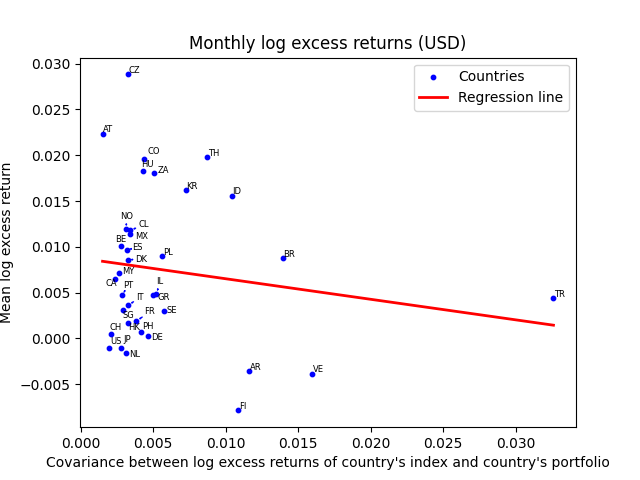
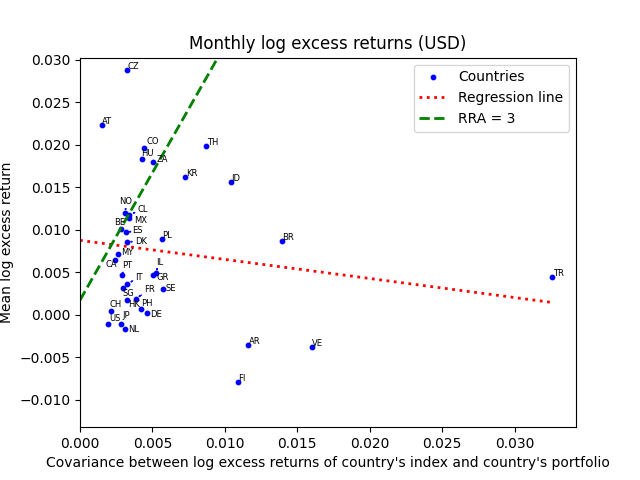
Add RRA=3

diff --git a/src/figure1.py b/src/figure1.py
@@ -19,25 +19,26 @@ cpis = data.get_dataset("cpis")
 wb = data.get_dataset("wb")
 
 # Align the risk-free rate data with the returns data
+start, end = (2001, 2004)
+ds = ds.loc[:, (ds.columns >= pd.Timestamp(f"{start-1}-12-01")) & (ds.columns <= pd.Timestamp(f"{end+1}-01-01"))]
 fed = fed.reindex(columns=ds.columns)
 fed = annual_to_monthly_return(fed)
 
 # Calculate returns and risk-free rate
-start, end = (2001, 2004)
-ds = ds.loc[:, (ds.columns >= pd.Timestamp(f"{start-1}-12-01")) & (ds.columns <= pd.Timestamp(f"{end+1}-01-01"))]
 ds_filled = ds.ffill(axis=1)
 returns = ds_filled.pct_change(axis=1, fill_method=None)
-risk_free_rate = fed.loc["FEDFUNDS"]
+riskfree_rate = fed.loc["FEDFUNDS"]
+avg_riskfree_rate = riskfree_rate.mean() 
 
 # Simple excess returns
-excess_returns = returns.subtract(risk_free_rate, axis=1)
+excess_returns = returns.subtract(riskfree_rate, axis=1)
 mean_excess = excess_returns.mean(axis=1)
 var_excess = excess_returns.var(axis=1)
 cov_excess = pd.Series(cpis.calculate_cov_index_portfolio(wb, fed, ds, (start, end), False), index=DS.CODES)
 
 # Log excess returns
 log_returns = np.log(1 + returns)
-log_risk_free = np.log(1 + risk_free_rate)
+log_risk_free = np.log(1 + riskfree_rate)
 log_excess_returns = log_returns.subtract(log_risk_free, axis=1)
 mean_log_excess = log_excess_returns.mean(axis=1)
 var_log_excess = log_excess_returns.var(axis=1)
@@ -50,7 +51,9 @@ scatter_countries(x=var_excess,
                   x_label="Variance of returns",
                   y_label="Mean return",
                   title="Monthly excess returns (USD)",
-                  save="fig1a",)
+                  save="fig1a",
+                  riskfree=avg_riskfree_rate,
+                  )
 
 scatter_countries(x=var_log_excess,
                   y=mean_log_excess,
@@ -58,15 +61,9 @@ scatter_countries(x=var_log_excess,
                   x_label="Variance of log returns",
                   y_label="Mean log return",
                   title="Monthly log excess returns (USD)",
-                  save="fig1a_log",)
-
-scatter_countries(x=cov_log_excess,
-                  y=mean_log_excess,
-                  codes=DS.CODES,
-                  x_label="Covariance between log excess returns of country's index and country's portfolio",
-                  y_label="Mean log excess return",
-                  title="Monthly log excess returns (USD)",
-                  save="fig1b_log",)
+                  save="fig1a_log",
+                  riskfree=avg_riskfree_rate,
+                  )
 
 scatter_countries(x=cov_excess,
                   y=mean_excess,
@@ -74,4 +71,16 @@ scatter_countries(x=cov_excess,
                   x_label="Covariance between excess returns of country's index and country's portfolio",
                   y_label="Mean return",
                   title="Monthly excess returns (USD)",
-                  save="fig1b",)
+                  save="fig1b",           
+                  riskfree=avg_riskfree_rate,
+                  )
+
+scatter_countries(x=cov_log_excess,
+                  y=mean_log_excess,
+                  codes=DS.CODES,
+                  x_label="Covariance between log excess returns of country's index and country's portfolio",
+                  y_label="Mean log excess return",
+                  title="Monthly log excess returns (USD)",
+                  save="fig1b_log",
+                  riskfree=avg_riskfree_rate,
+                  )

diff --git a/src/plot/plot.py b/src/plot/plot.py
@@ -14,7 +14,7 @@ from data.manager import *
 from utils import *
 from adjustText import adjust_text
 
-def scatter_countries(x, y, codes, x_label, y_label, title, save=None):
+def scatter_countries(x, y, codes, x_label, y_label, title, save=None, riskfree=None):
     # Perform OLS regression
     X = sm.add_constant(x)
     y = y
@@ -41,7 +41,11 @@ def scatter_countries(x, y, codes, x_label, y_label, title, save=None):
     # Plot regression line and do layout
     x_min, x_max = x.min(), x.max()     
     y_min, y_max = y_pred.iloc[x.argmin()], y_pred.iloc[x.argmax()]
-    plt.plot([x_min, x_max], [y_min, y_max], color='red', linewidth=2, label='Regression line')
+    plt.plot([0, x_max], [model.params["const"], y_max], color='red', linewidth=2, linestyle="dotted", label='Regression line')
+    if riskfree is not None:
+        plt.plot([0, x_max], [riskfree, riskfree+3*x_max], color='green', linewidth=2, linestyle="dashed", label='RRA = 3')
+        plt.ylim(top=y.max()*1.05)
+    plt.xlim(left=0)
     plt.legend()
     plt.xlabel(x_label)
     plt.ylabel(y_label)
